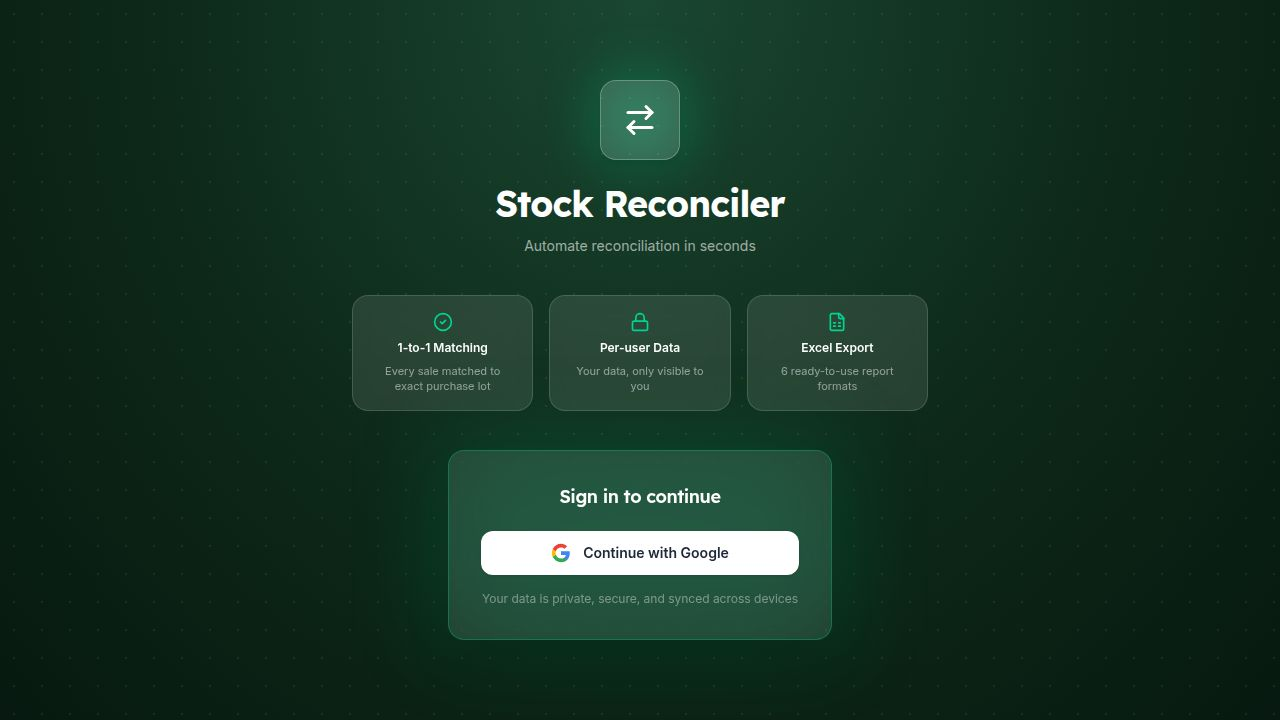
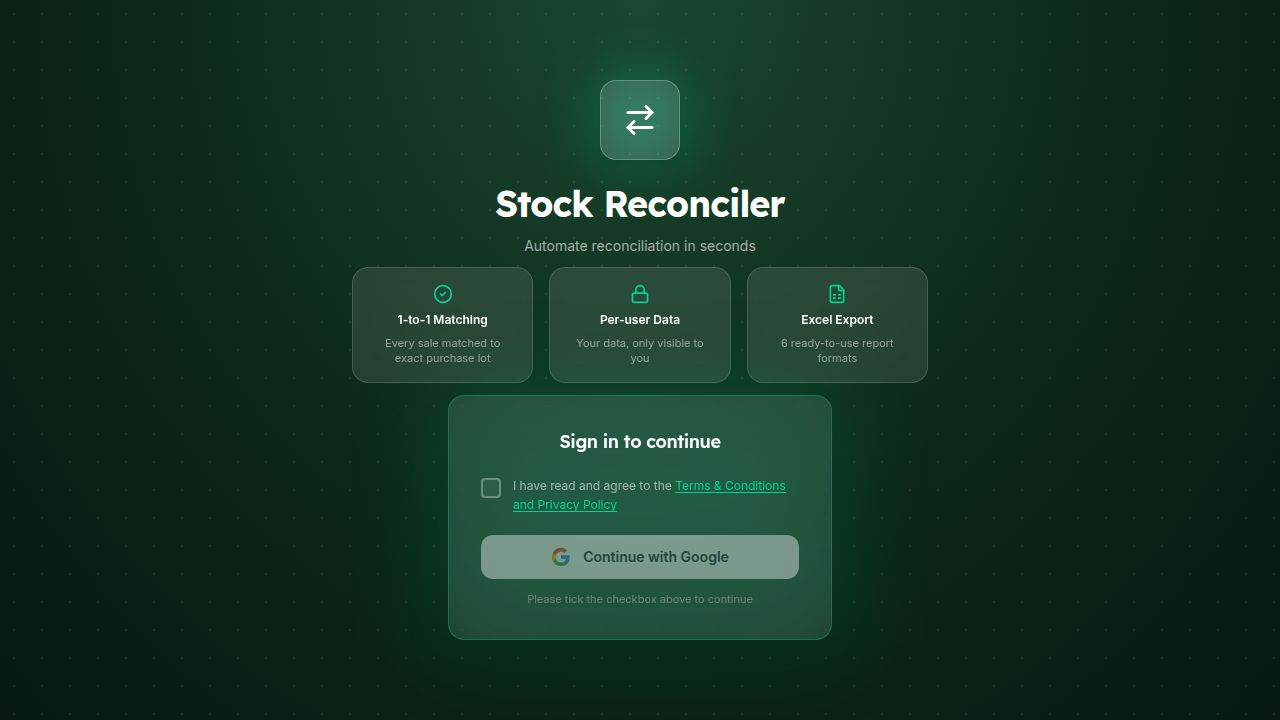
Update login flow to require terms acceptance only once
Integrate localStorage to track terms and conditions acceptance, removing the two-step login process and ensuring T&C are presented only on the first user interaction.

Replit-Commit-Author: Agent
Replit-Commit-Session-Id: 9bab3812-f447-4afb-9682-4dc12121fd4a
Replit-Commit-Checkpoint-Type: full_checkpoint
Replit-Commit-Event-Id: 40799db5-97de-4c9b-8181-1aec815161e6
Replit-Commit-Screenshot-Url: https://storage.googleapis.com/screenshot-production-us-central1/33e7ad11-3f82-4d47-b09a-b6c5acdba6ca/9bab3812-f447-4afb-9682-4dc12121fd4a/Zxyh7xY
Replit-Helium-Checkpoint-Created: true

Changed region(s): [[0.2812, 0.3667, 0.7188, 0.6417], [0.375, 0.6722, 0.625, 0.8556]]

diff --git a/artifacts/reconciliation-app/src/App.tsx b/artifacts/reconciliation-app/src/App.tsx
@@ -1,4 +1,4 @@
-import { useState } from "react";
+import { useState, useEffect } from "react";
 import { Switch, Route, Router as WouterRouter } from "wouter";
 import { QueryClient, QueryClientProvider } from "@tanstack/react-query";
 import { Toaster } from "@/components/ui/toaster";
@@ -6,7 +6,7 @@ import { TooltipProvider } from "@/components/ui/tooltip";
 import { useAuth } from "@workspace/replit-auth-web";
 import Dashboard from "@/pages/Dashboard";
 import NotFound from "@/pages/not-found";
-import { ArrowRightLeft, Loader2, CheckCircle2, Lock, FileSpreadsheet, ArrowLeft, ShieldCheck } from "lucide-react";
+import { ArrowRightLeft, Loader2, CheckCircle2, Lock, FileSpreadsheet } from "lucide-react";
 import AdminPage from "@/pages/AdminPage";
 
 const queryClient = new QueryClient({
@@ -36,24 +36,32 @@ const features = [
   },
 ];
 
-const terms = [
-  {
-    title: "Your data is private",
-    body: "Uploaded files are accessible only to your account. We never share or sell your data.",
-  },
-  {
-    title: "Subscription terms",
-    body: "Licences auto-renew. You may cancel before the renewal date for a full stop; no partial refunds.",
-  },
-  {
-    title: "No liability for errors",
-    body: "Reconciliation output is a tool to assist — always verify results before financial decisions.",
-  },
-];
+const TC_ACCEPTED_KEY = "tc_accepted_v1";
 
 function LoginPage() {
   const { login } = useAuth();
-  const [step, setStep] = useState<"login" | "terms">("login");
+
+  // Check if user has already accepted T&C in this browser
+  const [accepted, setAccepted] = useState<boolean>(() => {
+    try {
+      return localStorage.getItem(TC_ACCEPTED_KEY) === "1";
+    } catch {
+      return false;
+    }
+  });
+
+  // Persist acceptance to localStorage whenever it becomes true
+  useEffect(() => {
+    if (accepted) {
+      try { localStorage.setItem(TC_ACCEPTED_KEY, "1"); } catch { /* ignore */ }
+    }
+  }, [accepted]);
+
+  const handleLogin = () => {
+    // Ensure flag is saved before redirecting (belt-and-suspenders)
+    try { localStorage.setItem(TC_ACCEPTED_KEY, "1"); } catch { /* ignore */ }
+    login();
+  };
 
   return (
     <div
@@ -95,22 +103,52 @@ function LoginPage() {
         ))}
       </div>
 
-      {/* Bottom — two-step card */}
+      {/* Bottom — sign-in card */}
       <div className="relative z-10 w-full max-w-sm">
         <div className="absolute inset-0 rounded-2xl bg-emerald-500/20 blur-2xl scale-105 -z-10" />
-
-        {/* Step 1 — Google button */}
-        <div
-          className={`bg-white/10 backdrop-blur-xl border border-emerald-400/30 rounded-2xl p-8 shadow-2xl transition-all duration-300 ${
-            step === "login" ? "opacity-100 translate-y-0" : "opacity-0 translate-y-2 pointer-events-none absolute inset-0"
-          }`}
-        >
+        <div className="bg-white/10 backdrop-blur-xl border border-emerald-400/30 rounded-2xl p-8 shadow-2xl">
           <h2 className="text-white text-lg font-semibold mb-5 text-center">Sign in to continue</h2>
+
+          {/* T&C checkbox — only shown until the user has accepted once */}
+          {!accepted && (
+            <label className="flex items-start gap-3 mb-5 cursor-pointer group">
+              <div className="relative flex-shrink-0 mt-0.5">
+                <input
+                  type="checkbox"
+                  checked={accepted}
+                  onChange={(e) => setAccepted(e.target.checked)}
+                  className="sr-only peer"
+                />
+                <div className="w-5 h-5 rounded border-2 border-white/30 bg-white/5 peer-checked:bg-emerald-500 peer-checked:border-emerald-500 transition-all duration-150 flex items-center justify-center group-hover:border-white/60">
+                  {accepted && (
+                    <svg className="w-3 h-3 text-white" viewBox="0 0 12 12" fill="none">
+                      <path d="M2 6l3 3 5-5" stroke="currentColor" strokeWidth="1.8" strokeLinecap="round" strokeLinejoin="round"/>
+                    </svg>
+                  )}
+                </div>
+              </div>
+              <span className="text-white/55 text-xs leading-relaxed">
+                I have read and agree to the{" "}
+                <a
+                  href="/terms"
+                  target="_blank"
+                  rel="noopener noreferrer"
+                  className="text-emerald-400 hover:text-emerald-300 underline underline-offset-2 transition-colors"
+                  onClick={(e) => e.stopPropagation()}
+                >
+                  Terms &amp; Conditions and Privacy Policy
+                </a>
+              </span>
+            </label>
+          )}
+
+          {/* Google Sign-in button */}
           <button
-            onClick={() => setStep("terms")}
-            className="w-full bg-white text-gray-800 rounded-xl px-5 py-3 text-sm font-semibold flex items-center justify-center gap-3 hover:bg-gray-100 hover:-translate-y-0.5 hover:shadow-md active:scale-[0.98] transition-all duration-150 shadow-sm cursor-pointer"
+            onClick={handleLogin}
+            disabled={!accepted}
+            className="w-full bg-white text-gray-800 rounded-xl px-5 py-3 text-sm font-semibold flex items-center justify-center gap-3 transition-all duration-150 shadow-sm cursor-pointer disabled:opacity-40 disabled:cursor-not-allowed disabled:shadow-none enabled:hover:bg-gray-100 enabled:hover:-translate-y-0.5 enabled:hover:shadow-md enabled:active:scale-[0.98]"
           >
-            <svg className="w-5 h-5" viewBox="0 0 24 24">
+            <svg className="w-5 h-5 flex-shrink-0" viewBox="0 0 24 24">
               <path d="M22.56 12.25c0-.78-.07-1.53-.2-2.25H12v4.26h5.92c-.26 1.37-1.04 2.53-2.21 3.31v2.77h3.57c2.08-1.92 3.28-4.74 3.28-8.09z" fill="#4285F4"/>
               <path d="M12 23c2.97 0 5.46-.98 7.28-2.66l-3.57-2.77c-.98.66-2.23 1.06-3.71 1.06-2.86 0-5.29-1.93-6.16-4.53H2.18v2.84C3.99 20.53 7.7 23 12 23z" fill="#34A853"/>
               <path d="M5.84 14.09c-.22-.66-.35-1.36-.35-2.09s.13-1.43.35-2.09V7.07H2.18C1.43 8.55 1 10.22 1 12s.43 3.45 1.18 4.93l2.85-2.22.81-.62z" fill="#FBBC05"/>
@@ -119,62 +157,18 @@ function LoginPage() {
             </svg>
             Continue with Google
           </button>
-          <p className="text-white/40 text-xs text-center mt-4">
-            Your data is private, secure, and synced across devices
-          </p>
-        </div>
 
-        {/* Step 2 — Terms review */}
-        <div
-          className={`bg-white/10 backdrop-blur-xl border border-emerald-400/30 rounded-2xl p-6 shadow-2xl transition-all duration-300 ${
-            step === "terms" ? "opacity-100 translate-y-0" : "opacity-0 -translate-y-2 pointer-events-none absolute inset-0"
-          }`}
-        >
-          <div className="flex items-center gap-3 mb-4">
-            <button
-              onClick={() => setStep("login")}
-              className="text-white/40 hover:text-white/70 transition-colors"
-            >
-              <ArrowLeft className="w-4 h-4" />
-            </button>
-            <div className="flex items-center gap-2">
-              <ShieldCheck className="w-4 h-4 text-emerald-400" />
-              <h2 className="text-white text-sm font-semibold">Before you continue</h2>
-            </div>
-          </div>
+          {!accepted && (
+            <p className="text-white/30 text-[11px] text-center mt-3">
+              Please tick the checkbox above to continue
+            </p>
+          )}
 
-          <div className="space-y-3 mb-5">
-            {terms.map((term) => (
-              <div key={term.title} className="bg-white/5 border border-white/10 rounded-xl px-4 py-3">
-                <p className="text-emerald-400 text-[11px] font-semibold mb-1">{term.title}</p>
-                <p className="text-white/55 text-[11px] leading-relaxed">{term.body}</p>
-              </div>
-            ))}
-          </div>
-
-          <a
-            href="/terms"
-            target="_blank"
-            rel="noopener noreferrer"
-            className="text-white/30 text-[10px] underline underline-offset-2 block text-center mb-4 hover:text-white/50 transition-colors"
-          >
-            Read full Terms &amp; Conditions and Privacy Policy
-          </a>
-
-          <div className="flex gap-2">
-            <button
-              onClick={() => setStep("login")}
-              className="flex-1 border border-white/20 text-white/60 rounded-xl px-4 py-2.5 text-sm font-medium hover:bg-white/5 transition-all duration-150"
-            >
-              Decline
-            </button>
-            <button
-              onClick={login}
-              className="flex-1 rounded-xl px-4 py-2.5 text-sm font-semibold bg-emerald-500 text-white hover:bg-emerald-400 active:scale-[0.98] transition-all duration-150"
-            >
-              Accept &amp; Sign in
-            </button>
-          </div>
+          {accepted && (
+            <p className="text-white/40 text-xs text-center mt-4">
+              Your data is private, secure, and synced across devices
+            </p>
+          )}
         </div>
       </div>
     </div>
